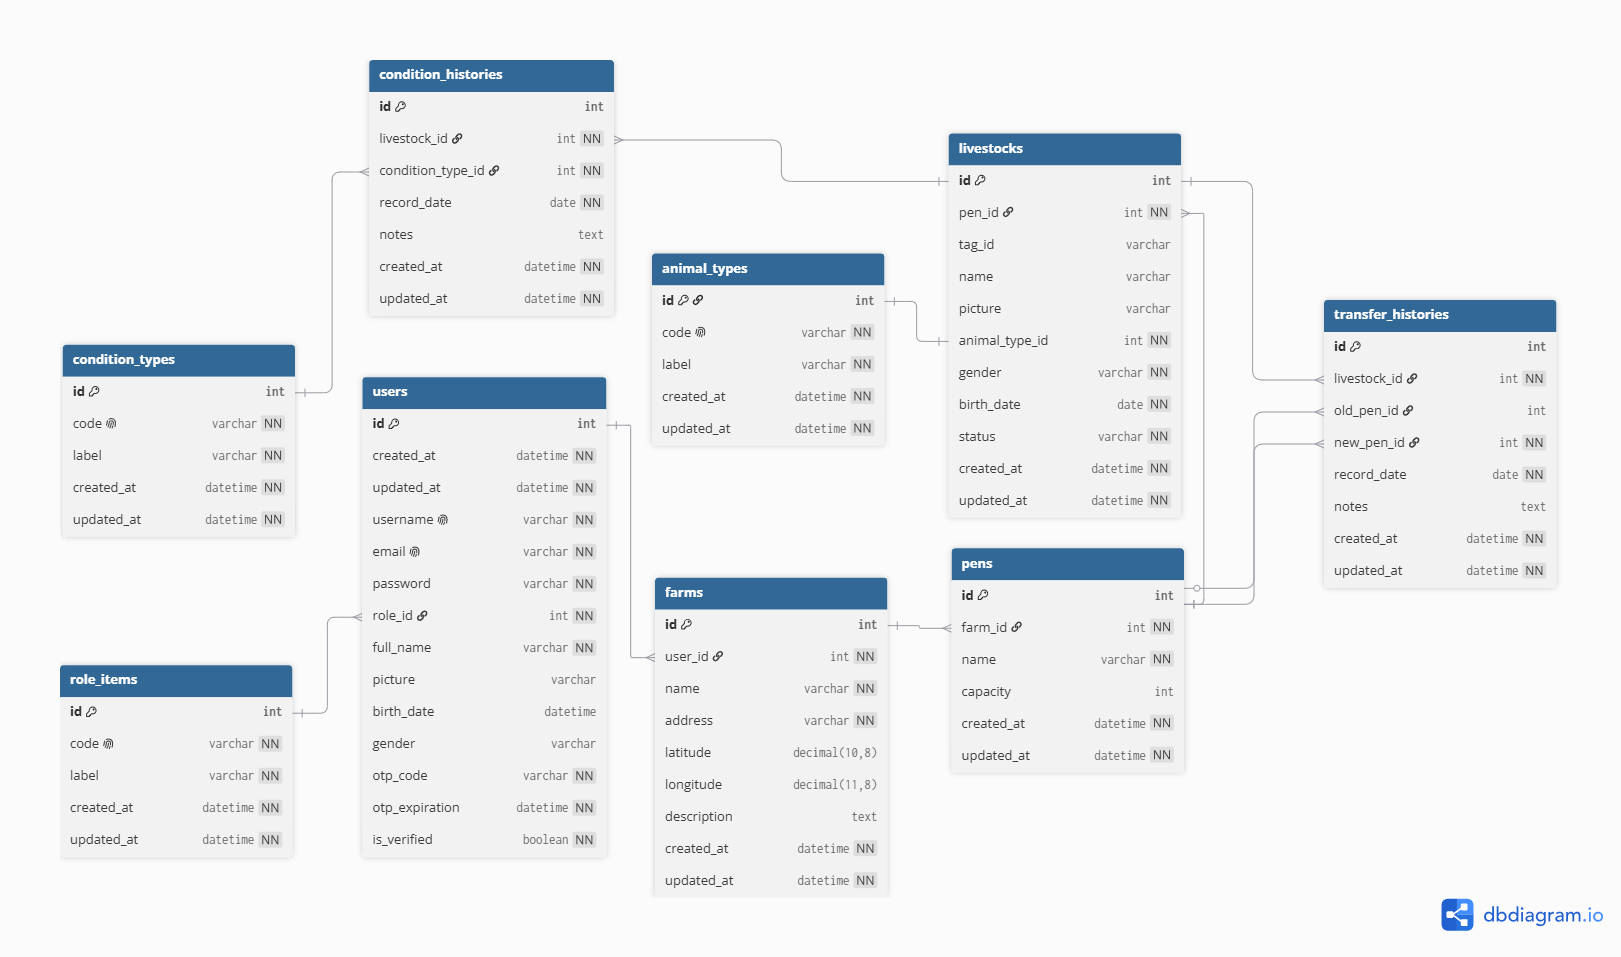
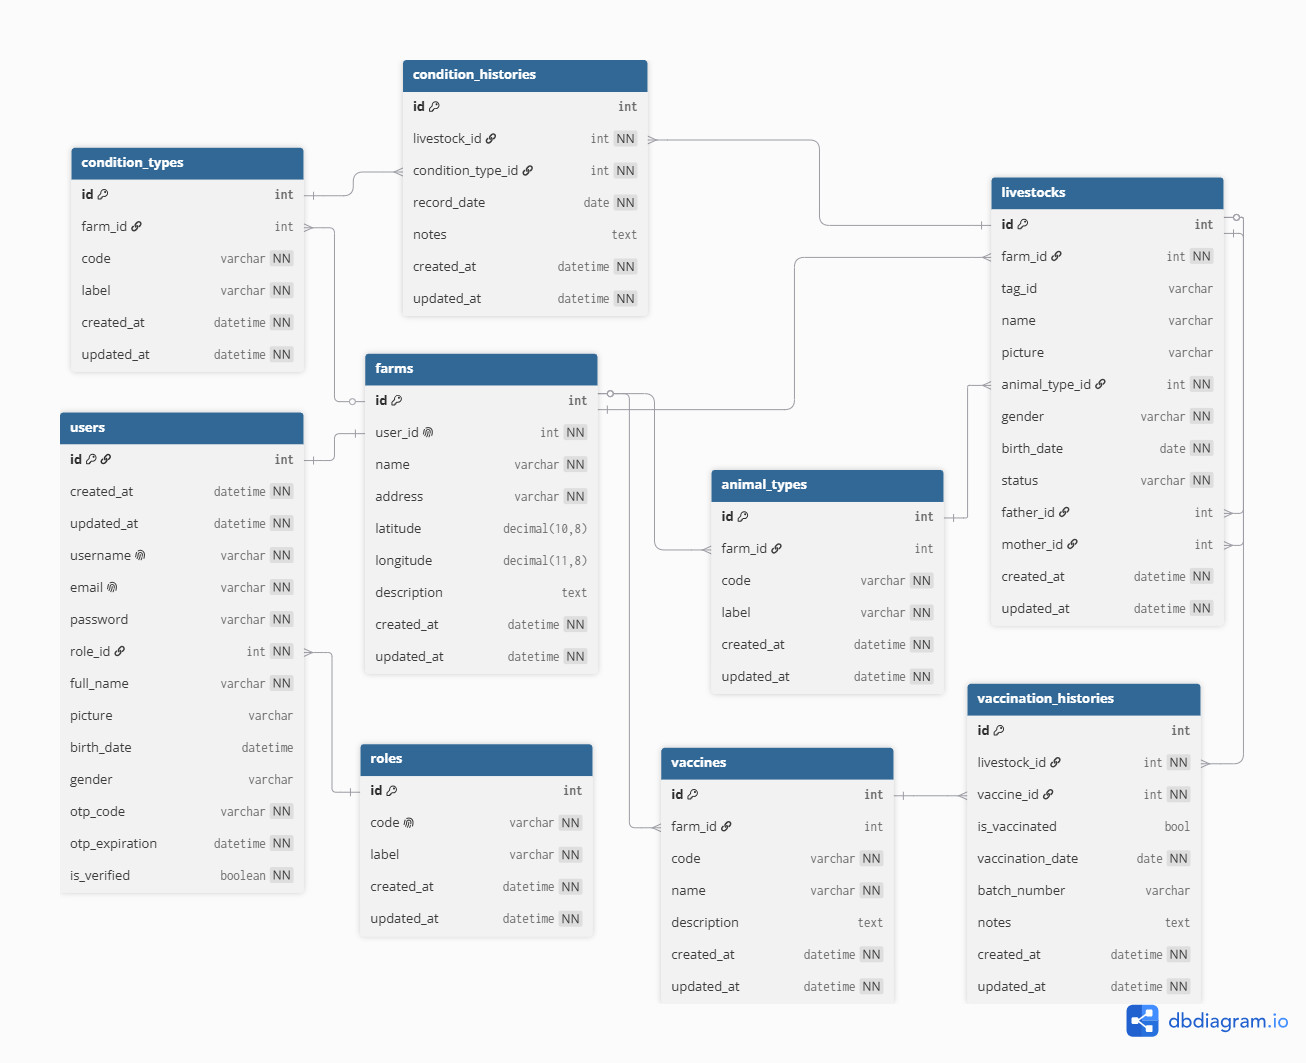
feat(docs): update readme and erd for simplify application requirements

diff --git a/backend/src/app.module.ts b/backend/src/app.module.ts
@@ -1,8 +1,10 @@
 import { Module } from '@nestjs/common';
 import { AppController } from './app.controller';
+import { AuthModule } from './modules/auth/auth.module';
+import { CommonModule } from './common/common.module';
 
 @Module({
-  imports: [],
+  imports: [CommonModule, AuthModule],
   controllers: [AppController],
 })
 export class AppModule {}

diff --git a/backend/README.md b/backend/README.md
@@ -17,9 +17,9 @@
 
 ## 📖 Deskripsi
 
-**TernakKu** adalah aplikasi sistem informasi manajemen berbasis digital yang dirancang untuk membantu peternak dalam mengelola seluruh aktivitas operasional peternakan secara lebih mudah, cepat, dan terstruktur.
+**TernakKu** adalah aplikasi sistem informasi manajemen berbasis digital yang dirancang untuk membantu peternak dalam mengelola aktivitas operasional peternakan secara lebih mudah, cepat, dan terstruktur.
 
-Aplikasi ini menggantikan proses pencatatan manual menjadi sistem pencatatan digital yang terintegrasi. Melalui TernakKu, peternak dapat mengelola profil peternakan, memetakan pembagian kandang, mencatat data dan mutasi ternak, serta memantau riwayat kondisi setiap individu ternak secara real-time (mulai dari fase kelahiran, inseminasi buatan, vaksinasi, riwayat penyakit, hingga status penjualan atau kematian).
+Aplikasi ini menggantikan proses pencatatan manual menjadi sistem pencatatan digital yang terintegrasi. Melalui TernakKu, peternak dapat mengelola profil peternakan, mencatat data inventaris dan silsilah genetika ternak, serta memantau riwayat setiap individu hewan secara real-time. Fitur pencatatan mencakup kejadian umum (kelahiran, sakit, kematian) hingga rekam medis khusus seperti penjadwalan dan pelacakan riwayat vaksinasi.
 
 Dengan digitalisasi pencatatan tersebut, TernakKu diharapkan mampu meningkatkan efisiensi operasional, menjaga akurasi data, serta membantu meningkatkan produktivitas usaha peternakan.
 
@@ -29,10 +29,10 @@ Dengan digitalisasi pencatatan tersebut, TernakKu diharapkan mampu meningkatkan 
 
 TernakKu dikembangkan untuk membantu peternak dalam:
 
-- Melakukan digitalisasi pencatatan operasional peternakan.
-- Memetakan manajemen lokasi (kandang) secara akurat.
-- Mengurangi kesalahan pencatatan manual dan rekam jejak ternak.
-- Mempermudah pemantauan kondisi dan riwayat perpindahan (*transfer*) setiap ternak.
+- Melakukan digitalisasi pencatatan operasional peternakan secara terpusat.
+- Mengurangi kesalahan pencatatan manual terkait rekam jejak dan silsilah ternak.
+- Mempermudah pemantauan kondisi harian dan penjadwalan vaksinasi hewan.
+- Menyediakan arsitektur data kustom yang fleksibel (peternak dapat membuat kategori pencatatan sendiri).
 - Meningkatkan efisiensi pengelolaan usaha peternakan secara keseluruhan.
 
 ## 📌 Use Case
@@ -47,10 +47,10 @@ flowchart LR
         UC1([Registrasi Akun])
         UC2([Login])
         UC3([Kelola Profil Pengguna])
-        UC4([Kelola Peternakan & Kandang])
-        UC5([Manajemen Data & Mutasi Ternak])
-        UC6([Input Riwayat Kondisi Ternak])
-        UC7([Kelola Master Data: Tipe Hewan & Kondisi])
+        UC4([Kelola Profil Peternakan])
+        UC5([Kelola Data & Silsilah Ternak])
+        UC6([Kelola Riwayat Kondisi & Vaksinasi])
+        UC7([Kelola Master Data Parameter])
     end
     
     %% Relasi Peternak
@@ -60,6 +60,7 @@ flowchart LR
     Peternak --- UC4
     Peternak --- UC5
     Peternak --- UC6
+    Peternak --- UC7
     
     %% Relasi Admin
     Admin --- UC2
@@ -80,13 +81,13 @@ flowchart LR
 
 3. **UC3: Kelola Profil Pengguna**: Memperbarui informasi personal pengguna (Peternak/Admin).
 
-4. **UC4: Kelola Peternakan & Kandang**: Peternak memperbarui informasi peternakan yang dikelola serta mengatur daftar kandang beserta kapasitasnya.
+4. **UC4: Kelola Profil Peternakan**: Peternak melengkapi dan memperbarui informasi dasar mengenai lokasi dan identitas peternakan yang dikelolanya.
 
-4. **UC5: Manajemen Data & Mutasi Ternak**: Peternak melihat daftar ternak, menambah/mengubah data hewan, serta melakukan proses transfer (pindah kandang) antar ternak.
+5. **UC5: Kelola Data & Silsilah Ternak**: Peternak melihat daftar inventaris, menambah/mengubah profil individu hewan, serta mendata garis keturunan (induk dan pejantan).
 
-5. **UC6: Input Riwayat Kondisi Ternak**: Peternak mencatat kondisi atau kejadian spesifik pada ternak (misal: lahir, sakit, vaksin) berdasarkan tipe kondisi baku dari sistem.
+6. **UC6: Kelola Riwayat Kondisi & Vaksinasi**: Peternak mencatat buku log harian (kejadian lahir, sakit, dll) serta mengatur jadwal dan rekam medis vaksinasi secara spesifik.
 
-8. **UC7: Kelola Master Data**: Admin sistem bertugas mengelola (menambah/merubah) parameter baku secara global, seperti jenis hewan (Sapi, Kambing) dan tipe kondisi ternak (Vaksin, Sakit, dll).
+7. **UC7: Kelola Master Data Parameter**: Admin bertugas mengelola parameter global (tipe hewan, kondisi, dan jenis vaksin bawaan sistem). Peternak juga memiliki akses ke modul ini untuk membuat parameter kustom yang khusus berlaku di peternakannya sendiri.
 
 ---
 
@@ -104,14 +105,14 @@ flowchart TD
     
     Dashboard --> Pilihan{Pilih Aktivitas Bisnis}
     
-    %% Cabang 1: Pengaturan Tempat
-    Pilihan -->|Persiapan Lokasi| Master[Kelola Info Peternakan & Daftar Kandang]
+    %% Cabang 1: Pengaturan Profil & Parameter
+    Pilihan -->|Persiapan Data Awal| Master[Kelola Info Peternakan & Parameter Kustom]
     
-    %% Cabang 2: Manajemen Inventaris & Mutasi
-    Pilihan -->|Kelola Inventaris| Ternak[Tambah/Ubah Profil Ternak & Mutasi Pindah Kandang]
+    %% Cabang 2: Manajemen Inventaris
+    Pilihan -->|Kelola Inventaris| Ternak[Tambah/Ubah Profil & Silsilah Ternak]
     
     %% Cabang 3: Operasional Harian
-    Pilihan -->|Pencatatan Harian| Riwayat[Input Riwayat / Kondisi Ternak Aktual]
+    Pilihan -->|Pencatatan Harian| Riwayat[Input Log Kondisi & Jadwal Vaksinasi]
     
     %% Kembali ke pusat aktivitas
     Master --> Dashboard
@@ -125,15 +126,36 @@ flowchart TD
 
 1. **Titik Masuk (Autentikasi)**: Peternak memulai dengan mengecek apakah sudah memiliki akun. Jika belum, peternak melakukan registrasi terlebih dahulu, kemudian login ke dalam sistem.
 
-2. **Pusat Kendali (Dashboard)**: Setelah berhasil login, peternak diarahkan ke Dashboard sebagai pusat kendali untuk memilih aktivitas yang akan dilakukan.
+2. **Pusat Kendali (Dashboard)**: Setelah berhasil login, peternak diarahkan ke Dashboard sebagai pusat kendali untuk memilih aktivitas operasional.
 
 3. **Tiga Pilar Aktivitas Bisnis:**
-    - **Persiapan Lokasi (Kandang)**: Dilakukan saat pertama kali menggunakan aplikasi atau ketika ada penambahan lahan. Peternak mendaftarkan peternakan dan membaginya ke dalam beberapa blok kandang.
-    - **Manajemen Inventaris & Mutasi**: Dilakukan ketika ada penambahan ternak baru, pembaruan profil hewan, atau ketika ternak harus dipindahkan dari satu kandang ke kandang lain (mutasi).
-    - **Pencatatan Harian**: Aktivitas operasional rutin. Peternak mencatat kondisi ternak secara aktual menggunakan parameter yang sudah disediakan sistem (misalnya: pencatatan vaksinasi atau riwayat sakit).
+    - **Persiapan Data Awal**: Dilakukan saat pertama kali setup aplikasi. Peternak mendaftarkan lokasi peternakan dan dapat mendefinisikan tipe parameter kustom (seperti jenis kondisi atau vaksin khusus) jika template bawaan dari sistem kurang memadai.
+    - **Manajemen Inventaris**: Dilakukan ketika ada penambahan ternak baru, pembaruan identitas visual hewan, atau menautkan data silsilah (induk/pejantan) ke dalam sistem.
+    - **Pencatatan Harian**: Aktivitas operasional rutin. Peternak mencatat kondisi ternak secara aktual serta melakukan tracking rekam medis (seperti mencatat nomor batch vaksin dan menjadwalkan vaksinasi berikutnya).
 
-4. **Siklus Berulang**: Setelah menyelesaikan satu tugas, peternak kembali ke Dashboard untuk melakukan tugas lain atau memilih keluar (logout) jika pekerjaan selesai.
+4. **Siklus Berulang**: etelah menyelesaikan satu tugas, peternak kembali ke Dashboard untuk melanjutkan tugas lain atau memilih keluar (logout) jika seluruh pekerjaan selesai.
 
 ## 🗄 Entity Relationship Diagram (ERD)
 
 ![Entity Reational Database](/docs/images/erd.png)
+
+1. **Autentikasi & Hak Akses (`users`, `roles`)**
+    - **Fitur Registrasi & Login**: Diakomodasi penuh dalam tabel `users` melalui atribut kredensial (`email`, `password`). Alur keamanan dan validasi menggunakan atribut `otp_code`, `otp_expiration`, dan `is_verified`.
+    - **Pemisahan Wewenang**: Atribut `role_id` pada tabel pengguna terhubung ke tabel referensi `roles`, berfungsi membedakan antarmuka dan hak akses antara Admin (pengelola sistem) dan Peternak (pengguna akhir).
+
+2. **Manajemen Profil Peternakan (`farms`)**
+    - **Kepemilikan Tunggal**: Atribut `user_id` pada tabel `farms` menggunakan *constraint* `[unique, not null]` sehingga satu pengguna hanya dapat mengelola satu peternakan.
+
+    - **Pemetaan Lokasi**: Fitur peta spasial (Google Maps/Leaflet) didukung oleh atribut `latitude` dan `longitude`.
+
+3. **Inventaris & Silsilah Ternak (`livestocks`)**
+    - **Identifikasi Fleksibel**: Melalui atribut `tag_id`, `name`, dan `picture`, aplikasi tetap relevan bagi peternak berskala kecil yang mengidentifikasi hewan menggunakan nama/ciri fisik maupun peternak besar yang menggunakan nomor anting (*ear tag*).
+    - **Pelacakan Garis Keturunan**: Fitur silsilah atau genetika diimplementasikan dengan atribut `father_id` dan `mother_id` yang merujuk kembali ke ID utama di tabel `livestocks` yang sama.
+
+4. **Arsitektur Master Data Dinamis (`animal_types`, `condition_types`, `vaccines`)**
+    - **Pola Desain Template**: Jika `farm_id` bernilai `null`, maka data tersebut berfungsi sebagai template global bawaan yang dibuat oleh Admin. Jika `farm_id` terisi, maka itu adalah kategori kustom yang dibuat mandiri oleh suatu peternakan.
+    - **Integritas Kode Data**: Implementasi *Composite Unique Key* pada blok *indexes* `{ (code, farm_id) [unique] }` memastikan peternak bebas membuat kode (`code`) kustom tanpa memicu bentrok dengan kode dari peternak lain, namun tetap mempertahankan keunikan di dalam peternakannya sendiri.
+
+5. **Pencatatan Operasional Harian (`condition_histories`, `vaccination_histories`)**
+    - **Kondisi Umum (`condition_histories`)**: Berfungsi sebagai *logbook*. Menghubungkan hewan terkait (`livestock_id`) dengan kejadian spesifik (`condition_type_id`) berdasarkan tanggal kejadian aktual (`record_date`) dan dilengkapi catatan tambahan (`notes`).
+    - **Rekam Medis Khusus (`vaccination_histories`)**: Dipisahkan dari tabel kondisi umum untuk melacak atribut medis khusus, seperti `batch_number`. Peternak dapat melacak nomor seri vaksin tertentu yang disuntikkan jika sewaktu-waktu terjadi wabah atau efek samping. Selain itu, peternak dapat menjadwalkan vaksinasi (`vaccination_date`) dan menandai status apakah sudah divaksinasi atau belum (`is_vaccinated`).
